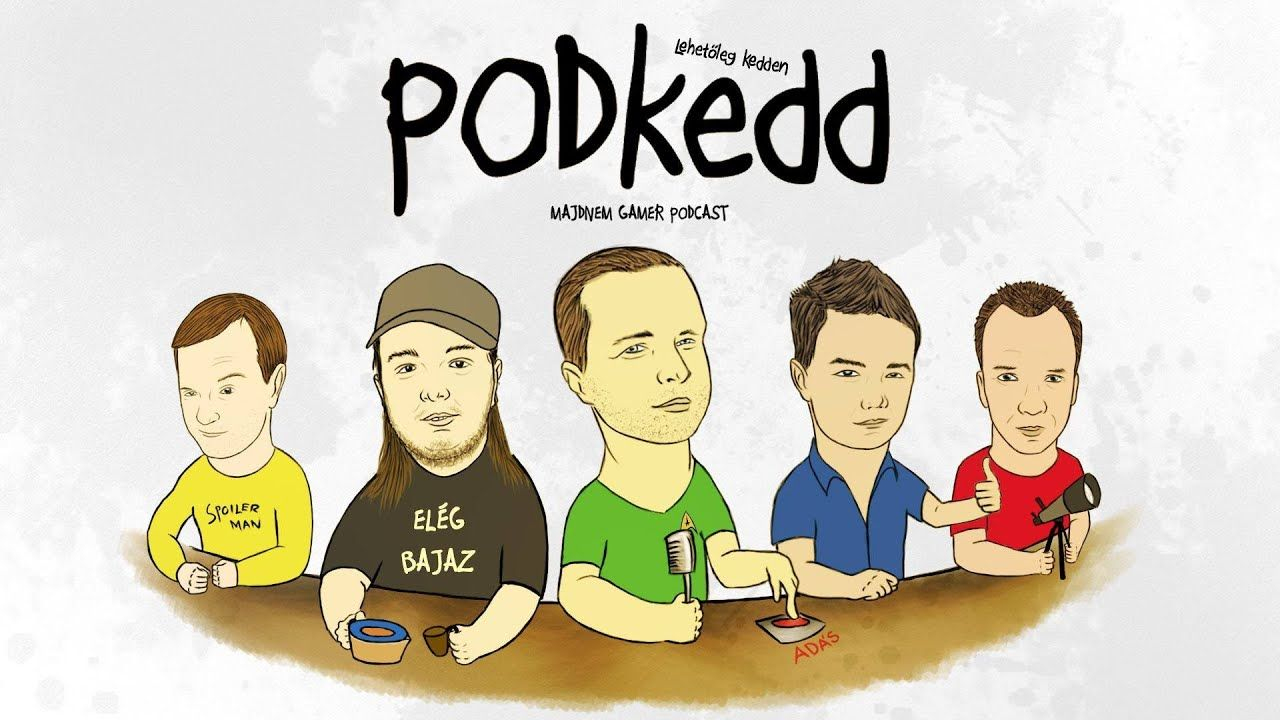
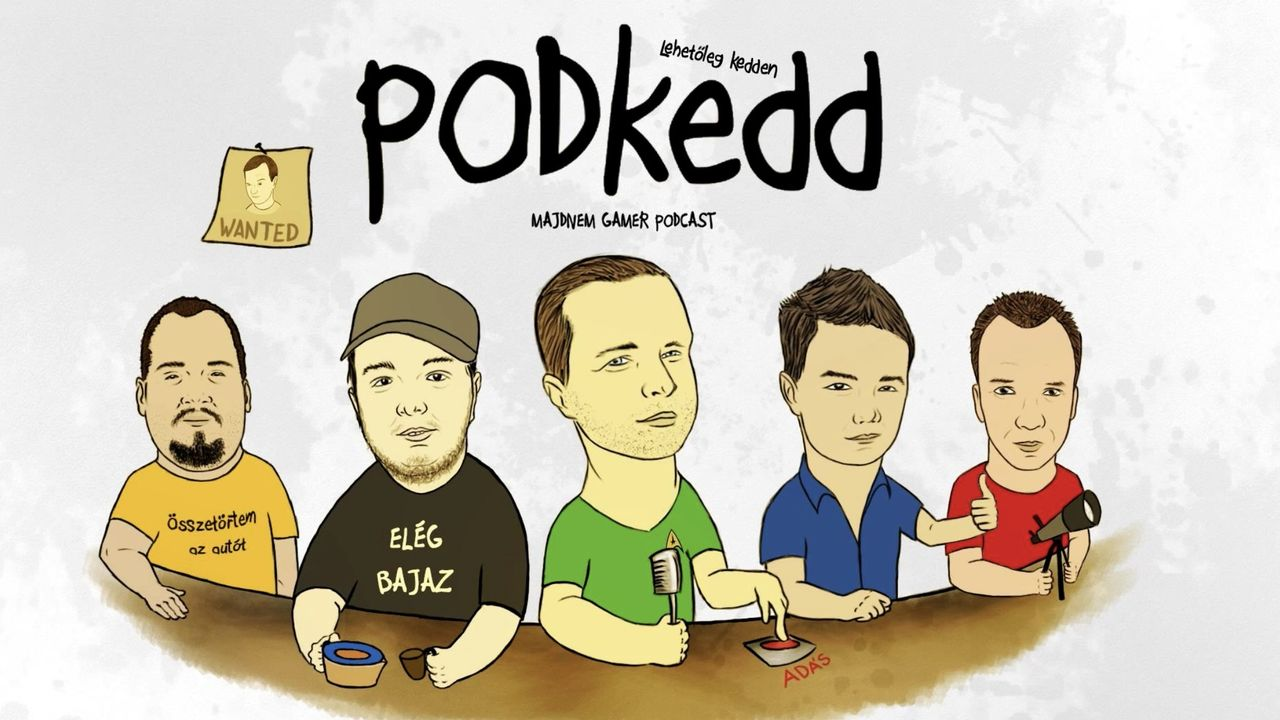
Végleges borító Balázzsal, szereplők pólószínei, GoodLike írásmód
Claude-Session: https://claude.ai/code/session_01VbH8XHehFb9YMqaE4hBbtU

diff --git a/index.html b/index.html
@@ -81,7 +81,10 @@ form .btn{flex:none}
 .chips{display:flex;gap:7px;flex-wrap:wrap}
 .chip{border:2px solid var(--line);background:var(--card);border-radius:999px;padding:5px 13px;font-size:.92rem;font-weight:500}
 .chip[aria-pressed="true"]{background:var(--yellow);font-weight:700;box-shadow:2px 2px 0 var(--line)}
-#fWho .chip[aria-pressed="true"]{background:var(--green)}
+#fWho .chip{display:inline-flex;align-items:center;gap:6px}
+#fWho .chip .dot{width:11px;height:11px;border-radius:50%;background:var(--pc);border:1.5px solid var(--line)}
+#fWho .chip[aria-pressed="true"]{background:var(--pc);color:var(--pt)}
+#fWho .chip[aria-pressed="true"] .dot{border-color:var(--pt)}
 
 .resultbar{display:flex;justify-content:space-between;align-items:center;gap:10px;flex-wrap:wrap;color:var(--muted);font-family:var(--f-label);font-size:1.05rem}
 .resultbar select{border:2px solid var(--line);background:var(--card);border-radius:10px;padding:5px 8px;font-family:var(--f-body);font-size:.88rem}
@@ -103,7 +106,7 @@ form .btn{flex:none}
 .title.empty{color:var(--muted);font-style:italic;font-weight:500}
 .meta{display:flex;flex-wrap:wrap;gap:5px;align-items:center;font-size:.8rem;color:var(--muted)}
 .pill{border:1.5px solid var(--muted);border-radius:999px;padding:1px 8px}
-.pill.who{border-color:var(--green);color:#3d7a22;font-weight:600}
+.pill.who{background:var(--pc);color:var(--pt);border:1.5px solid var(--line);font-weight:700}
 .pill.dur{border-color:var(--wood);color:var(--wood-dk);font-weight:600}
 .pill.own{border-color:var(--blue);color:var(--blue)}
 .note{font-size:.84rem;color:var(--red-dk);font-family:var(--f-label);font-size:1rem;line-height:1.25}
@@ -142,7 +145,7 @@ form input{border:2px solid var(--line);background:var(--paper-hi);border-radius
 <div class="wrap">
   <header>
     <h1 class="vh">PODkedd sztoritár</h1>
-    <img class="cover" src="img/borito.jpg" width="1280" height="720" alt="PODkedd, lehetőleg kedden, majdnem gamer podcast: a csapat rajzolt karikatúrája az asztal körül">
+    <img class="cover" src="img/borito.jpg" width="1280" height="720" alt="PODkedd, lehetőleg kedden, majdnem gamer podcast: balról jobbra Balázs, Alex, Covery, GoodLike és Lali rajzolt karikatúrája az asztal körül">
     <div class="stats" id="stats"></div>
   </header>
 
@@ -179,7 +182,7 @@ form input{border:2px solid var(--line);background:var(--paper-hi);border-radius
         <label>Hossz (perc)<input id="nDur" inputmode="numeric" placeholder="15"></label>
       </div>
       <label>Miről szól<input id="nTitle" placeholder="Covery IKEA-s félreértése" required></label>
-      <label>Ki meséli (vesszővel)<input id="nWho" placeholder="Covery, Balázs"></label>
+      <label>Ki meséli (vesszővel)<input id="nWho" placeholder="Covery, Balázs (ahogy a szűrőben)"></label>
       <div class="frow"><span class="flabel">Téma</span><div class="chips" id="nTags"></div></div>
       <button class="btn save" type="submit">Mentés</button>
       <span class="hint">A kezdést írhatod így is: 1:12:30, 53:00 vagy simán 53 (perc).</span>
@@ -193,7 +196,10 @@ form input{border:2px solid var(--line);background:var(--paper-hi);border-radius
 
 <script>
 const TAGS={suli:"Suli",gyerek:"Gyerekkor",buli:"Buli és ivás",gaming:"Gaming és LAN",melo:"Melók",kinos:"Kínos",kozl:"Közlekedés",unnep:"Ünnepek",vasarlas:"Vásárlás",net:"Internet",kutyu:"Kütyük",film:"Filmek",konteo:"Konteó",rage:"Rage"};
-const WHO=["Covery","Goodlike","Balázs","Lali","Alex","Papi"];
+// pólószínek a borítóról, balról jobbra; Ryan és Papi nincs a végleges borítón
+const WHO=["Balázs","Alex","Covery","GoodLike","Lali","Ryan","Papi"];
+const SHIRT={"Balázs":["#f2b632","#1d1b18"],"Alex":["#3b332b","#f3e7a8"],"Covery":["#6cbf47","#1d1b18"],"GoodLike":["#2f63b6","#ffffff"],"Lali":["#d6302a","#ffffff"]};
+const shirt=w=>{const c=SHIRT[w]||["#d9d6cf","#1d1b18"];return `--pc:${c[0]};--pt:${c[1]}`};
 const EPT={119:"Virtuális valóság és más dolgok",120:"Vásárolható videó a YouTube-on, HER, Overwatch",121:"Leghallgatottabb és a legszerényebb podcast az országban",123:"Aranyélet, Gear S2",125:"Évértékelő, jövő váró, behirdető bebaxxos live",126:"Robotok, robotok mindenhol! Vagy nem",127:"Star Wars spoileresen, előző év, jövőről",128:"Fontos változások vannak… Új év új lehetőségek",129:"Vendégkedd: Büntető podcast",130:"Useless cuccok, túlárazott vacakok és régi kütyüink",131:"Siege, Firewatch, Overwatch és Miskolcia nyelvészeti tanfolyam!",132:"Vendégkedd: Kelt a Meti Heteortól",135:"PODszerda: Sebaj, jövünk!",136:"HUN van Covery",137:"Rainbow 6 Siege médiabajnokság, S7 Edge, GearVR",138:"Full of gaming adás",140:"Dumálgatós, lazulós",142:"VÉGRE PODKEDD! NA mi történt he?!",143:"Végre fullon a csapat!",144:"Papi lenni Amerika, BF1 vs COD, régi kedvenc játékélményeink",145:"Podcsütörtök: Google IO miegymás",146:"OVS felkészítő, majd kitaláljuk adás",149:"OVS-re megyünk",151:"Legjobb nyári story-k!",152:"A LEGDISLIKEOLTABB PODKEDD!!!",154:"YouTube underground, minden videós hülye?",156:"Sulikezdés élmények, egyedi cuccok a láthatáron!",157:"ÉS AKKOR AZT HITTEM HOGY Ő AZ…!!!444!!!",158:"0100001101001100…",159:"Adományozós felhívás, CS:GO csalók, kütyük!",163:"Rainbow6 GYERTEK EL!, Raszta…kmmm…2, meg még más dolgok",164:"Új setup, fídbek pls!",165:"FONTOS VÁLTOZÁSOK MLG!",166:"Időutazás",168:"Ingyen pénz munka nélkül, nem KLIKKBÉJT 100% (kacsint)",169:"Mesterséges Unintelligencia",170:"Együtt a BANDA!!!",172:"Videós gála és egyéb nyalánkságok",173:"Gamerkedd. Nagyon játszunk az egyik nagy durranással!",174:"Covery és az iPhone",176:"DILEMMA",177:"ITT VAGYUNK, RANT",179:"RAGE TIME",186:"Első webkamerás PODkedd és update a GeekBoxról"};
 const m=x=>x*60, W=-1;
 // [rész, kezdés mp, téma, hossz perc (null = nem tudni, -1 = egész adás), címkék, kik, megjegyzés]
@@ -206,7 +212,7 @@ const BASE=[
 [26,m(37),"Kell-e kisgyerekeknek telefon, gyerekkori sztorik",11,["gyerek"],[]],
 [28,m(50),"Álmos, orvosos történetek",null,["kinos"],[]],
 [30,m(28),"Pizzafutáros sztorik",14,["melo"],[],"A doksi egyik helyén 27., a másikon 28. perc."],
-[35,m(7),"Goodlike kikickeli Alexet CS:GO-ból",null,["gaming"],["Goodlike","Alex"]],
+[35,m(7),"GoodLike kikickeli Alexet CS:GO-ból",null,["gaming"],["GoodLike","Alex"]],
 [35,m(109),"Covery hangyós rage",null,["rage"],["Covery"]],
 [37,0,"Április elsejei prank",null,["kinos"],[]],
 [37,m(39),"Alex LoL assault class",null,["gaming"],["Alex"]],
@@ -215,7 +221,7 @@ const BASE=[
 [55,0,"Ki mit lopott, sulis sztorik",W,["suli","gyerek"],[]],
 [57,m(39),"S3 vs S5 incidens",null,["kutyu"],[]],
 [59,m(16),"Covery mekis családi menüs sztorija",7,["vasarlas"],["Covery"],"A doksi egyik helyén 15., a másikon 16. perc."],
-[60,m(81),"Goodlike és Lali gokartos vitája",null,["kozl"],["Goodlike","Lali"]],
+[60,m(81),"GoodLike és Lali gokartos vitája",null,["kozl"],["GoodLike","Lali"]],
 [63,0,"Fagyimaffia, vezetés, régi filmek amik felnőttként már nem jók, kamu sztorik",W,["gyerek","kozl","film"],[]],
 [69,m(62),"Gyerekkori businessek",27,["gyerek"],[]],
 [70,m(61),"Evős, ivós, alvós sztorik",30,["buli"],[]],
@@ -232,7 +238,7 @@ const BASE=[
 [84,m(60),"Covery éttermes sztorija",8,["melo"],["Covery"]],
 [84,m(68),"PODkedd-reklám",16,[],[]],
 [84,m(84),"Halandzsázás",null,["kinos"],[]],
-[85,m(49),"Goodlike CS:GO-menedzser lesz",null,["gaming"],["Goodlike"]],
+[85,m(49),"GoodLike CS:GO-menedzser lesz",null,["gaming"],["GoodLike"]],
 [85,m(109),"Dartsos sztorik",null,["buli"],[]],
 [86,m(38),"Covery orosz mondata",null,["kinos"],["Covery"]],
 [87,m(82),"Telefonálós sztorik",19,["kinos"],[],"A doksi egyik helyén 1:20, a másikon 1:22."],
@@ -249,7 +255,7 @@ const BASE=[
 [101,m(20),"Gyerekkori hazugságok",null,["gyerek"],[]],
 [102,0,"Rekt, drónok, nyári filmek, táborok, sulis sztorik",null,["suli","film","kutyu"],[]],
 [107,0,"Lali Cliffy B rage",9,["rage","gaming"],["Lali"]],
-[109,m(80),"Goodlike megszerzi a jogsit",null,["kozl"],["Goodlike"]],
+[109,m(80),"GoodLike megszerzi a jogsit",null,["kozl"],["GoodLike"]],
 [110,m(60),"Gyerekkori kamuk, lógós, ivós sztorik, büntetések",40,["gyerek","suli","buli"],[]],
 [111,0,"Egy nap törvények nélkül",74,[],[]],
 [111,m(119),"Autós sztorik",12,["kozl"],[]],
@@ -261,13 +267,13 @@ const BASE=[
 [121,m(13),"Covery zsidó vicce",null,[],["Covery"]],
 [121,m(74),"LED-es övek",null,["kutyu"],[]],
 [121,m(96),"Balázs S6-ja",null,["kutyu"],["Balázs"]],
-[121,m(105),"Goodlike tesójára rátörtek",null,[],["Goodlike"]],
+[121,m(105),"GoodLike tesójára rátörtek",null,[],["GoodLike"]],
 [123,m(84),"Felsőoktatás, puskázás, sulis sztorik",50,["suli"],[],"A doksi egyik helyén 1:25, a másikon 1:24."],
 [125,m(18),"Covery panelházas vitája",null,[],["Covery"]],
 [126,0,"Gamer hűtő",null,["kutyu"],[]],
 [126,m(67),"Indiai akciófilmek",null,["film"],[]],
 [127,m(10),"Covery találkozása az indiai supporttal",12,["vasarlas"],["Covery"]],
-[127,m(22),"Goodlike odamegy",null,[],["Goodlike"]],
+[127,m(22),"GoodLike odamegy",null,[],["GoodLike"]],
 [127,m(65),"Rajzfilmek eredeti történetei",null,["film","gyerek"],[]],
 [128,m(45),"Hányós sztorik",9,["buli","kinos"],[]],
 [129,m(79),"Kínos helyzetek",null,["kinos"],[]],
@@ -286,7 +292,7 @@ const BASE=[
 [142,m(28),"PlayIT-sztorik",20,["gaming"],[]],
 [143,m(84),"„Dögevők”, informatikai segítségnyújtós sztorik",null,["melo","kutyu"],[]],
 [144,m(13),"Covery fogadása, Papi amerikai élményei",null,[],["Covery","Papi"]],
-[144,m(96),"Goodlike CS-gambling sztorija",null,["gaming"],["Goodlike"]],
+[144,m(96),"GoodLike CS-gambling sztorija",null,["gaming"],["GoodLike"]],
 [145,m(93),"Vicces viccek",21,[],[]],
 [146,0,"Wireless headset-sztori",null,["kutyu"],[]],
 [146,m(66),"Mindennapok hülyéi, eladós átverések",22,["vasarlas"],[]],
@@ -294,7 +300,7 @@ const BASE=[
 [151,m(12),"Fesztiválok, Lali görkori-rantje, bevásárlókocsis sztorik, táborból kiszökések",null,["buli","gyerek","rage"],["Lali"]],
 [152,0,"Pokémon GO, clickbait, a legdislikeoltabb PODkedd",W,["gaming","net"],[]],
 [154,m(66),"Diszkós sztorik",null,["buli"],[]],
-[154,m(106),"Kéregetők, előtte Goodlike jövök-megyek pólója",null,[],["Goodlike"]],
+[154,m(106),"Kéregetők, előtte GoodLike jövök-megyek pólója",null,[],["GoodLike"]],
 [156,m(48),"Gyerekkori csúfolódások",19,["gyerek"],[]],
 [156,m(87),"Első sulinap, sulis sztorik",null,["suli"],[]],
 [157,0,"Indiai scammerek, alvászavarok, Covery futáros sztorija",29,["melo","net"],["Covery"]],
@@ -425,7 +431,7 @@ const TIMES=[["any","Bármennyi"],["10","10 perc"],["20","20 perc"],["45","45 pe
 const SHOWS=[["all","Mind"],["new","Még nem hallgattam"],["fav","Kedvencek"],["check","Ellenőrizendő"]];
 
 function chipRow(el,items,isOn,onTap){
-  el.innerHTML=items.map(([k,l])=>`<button type="button" class="chip" data-k="${esc(k)}" aria-pressed="${isOn(k)}">${esc(l)}</button>`).join("");
+  el.innerHTML=items.map(([k,l])=>`<button type="button" class="chip" data-k="${esc(k)}" aria-pressed="${isOn(k)}"${el.id==="fWho"?` style="${shirt(k)}"`:""}>${el.id==="fWho"?'<i class="dot"></i>':""}${esc(l)}</button>`).join("");
   el.onclick=e=>{const b=e.target.closest(".chip"); if(!b) return; onTap(b.dataset.k); render();};
 }
 function drawFilters(){
@@ -460,7 +466,7 @@ const icCopy='<svg viewBox="0 0 24 24" fill="none" stroke="currentColor" stroke-
 function card(s,inPick){
   const dur=s.dur===-1?'<span class="pill dur">egész adás</span>':(s.dur!=null?`<span class="pill dur">~${s.dur} perc</span>`:"");
   const tags=s.tags.map(t=>`<span class="pill">${esc(TAGS[t]||t)}</span>`).join("");
-  const who=s.who.map(w=>`<span class="pill who">${esc(w)}</span>`).join("");
+  const who=s.who.map(w=>`<span class="pill who" style="${shirt(w)}">${esc(w)}</span>`).join("");
   const own=s.own?'<span class="pill own">saját</span>':"";
   const sp=`https://open.spotify.com/search/${encodeURIComponent("PODkedd E"+s.ep)}`;
   return `<article class="card${S.done[s.id]&&!inPick?" done":""}" id="${inPick?"":"c-"+s.id}">

diff --git a/sw.js b/sw.js
@@ -1,5 +1,5 @@
 // PODkedd service worker: offline is működik, az állapot online szinkronizál a Supabase-szel.
-const VERSION = "pk-v2";
+const VERSION = "pk-v3";
 const SHELL = ["./", "./index.html", "./config.js", "./manifest.webmanifest", "./img/borito.jpg",
   "./icons/icon-180.png", "./icons/icon-192.png", "./icons/icon-512.png", "./icons/icon-maskable-512.png"];
 
